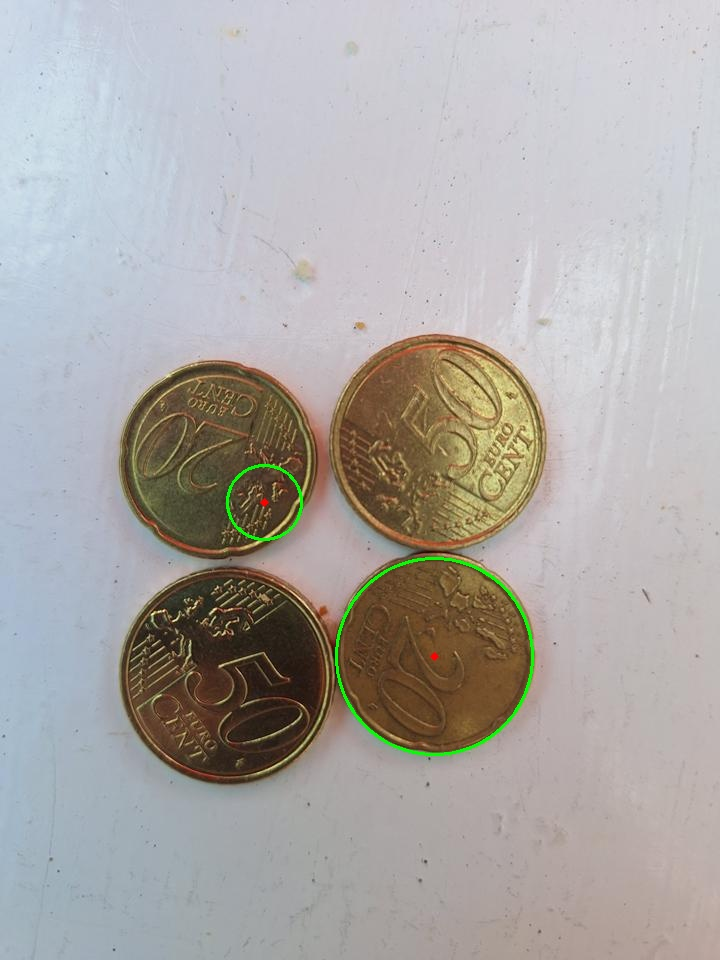
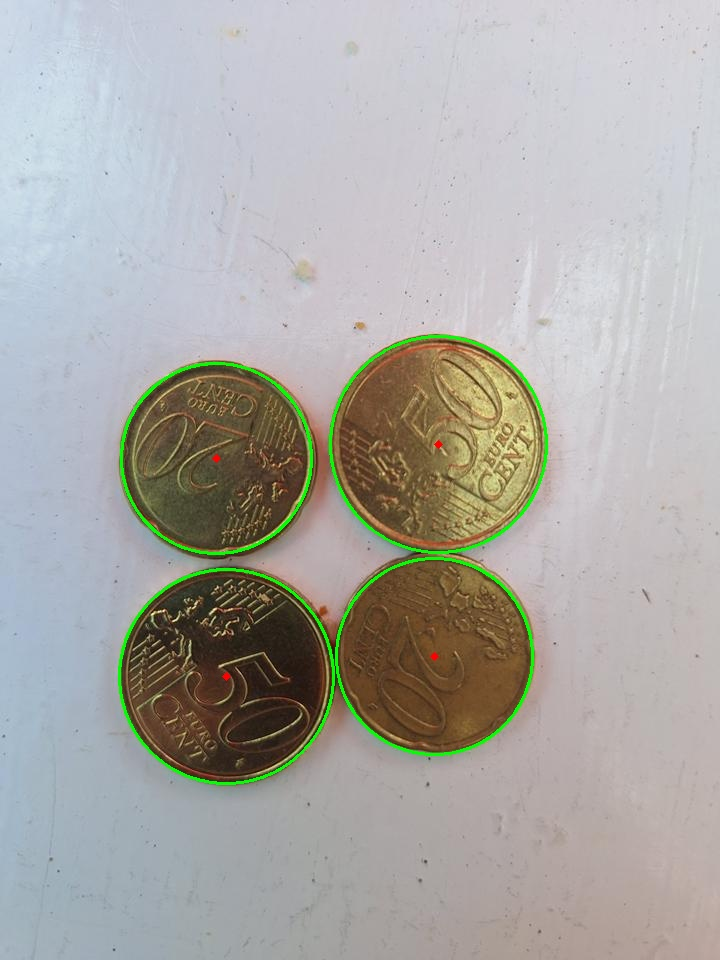
Push latest changes

diff --git a/src/detect.py b/src/detect.py
@@ -60,9 +60,21 @@ def non_maximum_suppression(circles: list, overlap_thresh: float = 0.4) -> list:
     the large cluster circle is then tested and suppressed because its centre
     coincides with one of the already-kept coins (distance < threshold).
 
-    For same-coin duplicates from both pipelines (similar radii, nearby
-    centres) the smaller of the two is kept — acceptable since both are
-    good fits and the size difference is typically < 5 %.
+    Size-ratio guard (min_suppress_ratio = 0.50)
+    --------------------------------------------
+    A circle already in `keep` (call it A, smaller since ascending) may only
+    suppress the incoming circle B if r_A ≥ 0.50 × r_B.
+
+    Without this guard, a tiny spurious ring detected on a coin's text or
+    scalloped-edge detail (r ≈ 30) could be added first and then block the
+    correct full-coin circle (r ≈ 70) because their centres are within the
+    overlap threshold distance.  The 30/70 = 0.43 ratio fails the guard, so
+    both circles survive NMS; the spurious one is then removed by
+    `_remove_nested_circles` because its centre falls inside the larger circle.
+
+    Same-coin duplicates from both pipelines have radius ratio ≈ 0.9–1.0,
+    so they still suppress each other normally.
+    Cluster-enclosing circles (ratio ≈ 0.59–0.70) also still get suppressed.
     """
     if len(circles) == 0:
         return []
@@ -71,11 +83,49 @@ def non_maximum_suppression(circles: list, overlap_thresh: float = 0.4) -> list:
     for (x1, y1, r1) in circles:
         suppressed = any(
             np.sqrt((x1 - x2) ** 2 + (y1 - y2) ** 2) < (r1 + r2) * (1.0 - overlap_thresh)
+            and r2 >= r1 * 0.50   # size-ratio guard: tiny kept circle cannot block a much larger new one
             for (x2, y2, r2) in keep
         )
         if not suppressed:
             keep.append((x1, y1, r1))
     return keep
+
+
+def _remove_nested_circles(circles: list) -> list:
+    """
+    Remove circles whose centre lies inside any larger circle.
+
+    After NMS, spurious sub-feature detections (coin text rings, scalloped-
+    edge details) may survive alongside the correctly-sized coin circle because
+    the size-ratio guard deliberately prevented them from being suppressed.
+    Any circle A whose centre is geometrically inside a larger circle B
+    (distance(A, B) < r_B and r_A < r_B) is discarded: it is a feature of
+    coin B's interior, not a separate coin.
+
+    Examples handled
+    ----------------
+    076 — 20 ct scalloped edge: tiny r ≈ 30 circle on coin text; its centre
+          is ~45 px from the coin centre, inside the r ≈ 70 correct circle.
+          → removed.
+    085 — 2 € bimetallic double detection: two Hough circles from the silver
+          outer rim and gold inner transition ring; the smaller one's centre
+          is inside the larger.  → removed.
+
+    Genuinely separate coins are never nested: the minimum physical
+    centre-to-centre distance for non-overlapping coins is r_A + r_B, which
+    is always > r_B (the containment threshold).
+    """
+    if len(circles) <= 1:
+        return circles
+    result = []
+    for (x1, y1, r1) in circles:
+        nested = any(
+            r2 > r1 and np.sqrt((x1 - x2) ** 2 + (y1 - y2) ** 2) < r2
+            for (x2, y2, r2) in circles
+        )
+        if not nested:
+            result.append((x1, y1, r1))
+    return result
 
 
 # ──────────────────────────────────────────────────────────────────────────────
@@ -678,7 +728,10 @@ def detect_coins(
         return []
 
     # --- Global NMS: deduplicate coins seen by both pipelines ---
-    return non_maximum_suppression(filtered, overlap_thresh=0.4)
+    deduped = non_maximum_suppression(filtered, overlap_thresh=0.4)
+
+    # --- Remove sub-feature circles nested inside larger coin circles ---
+    return _remove_nested_circles(deduped)
 
 
 # ──────────────────────────────────────────────────────────────────────────────
@@ -729,7 +782,8 @@ def get_debug_candidates(image: np.ndarray, **kwargs) -> dict:
     hough = _hough_candidates(image, min_radius=min_radius, max_radius=max_radius)
     merged = color + hough
     filtered = filter_false_positives(image, merged) if merged else []
-    final = non_maximum_suppression(filtered, overlap_thresh=0.4) if filtered else []
+    nms      = non_maximum_suppression(filtered, overlap_thresh=0.4) if filtered else []
+    final    = _remove_nested_circles(nms) if nms else []
 
     return {
         "color":    color,
